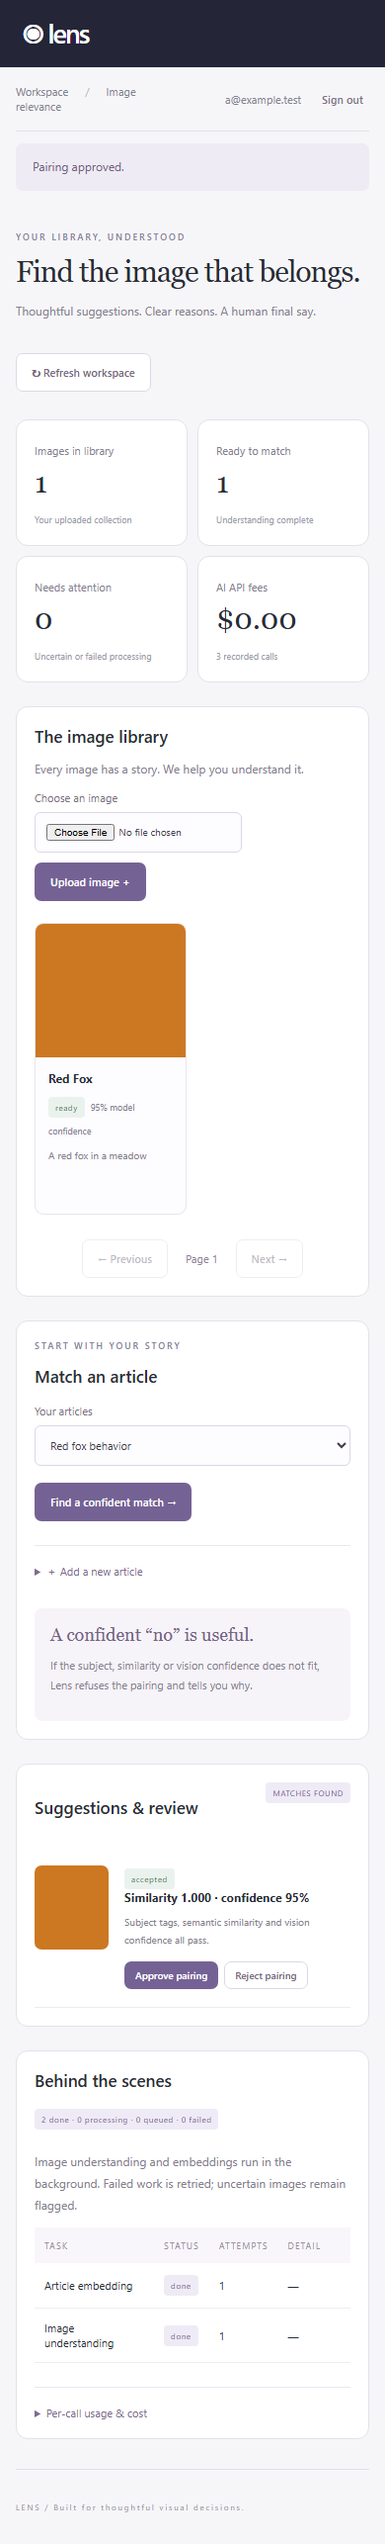
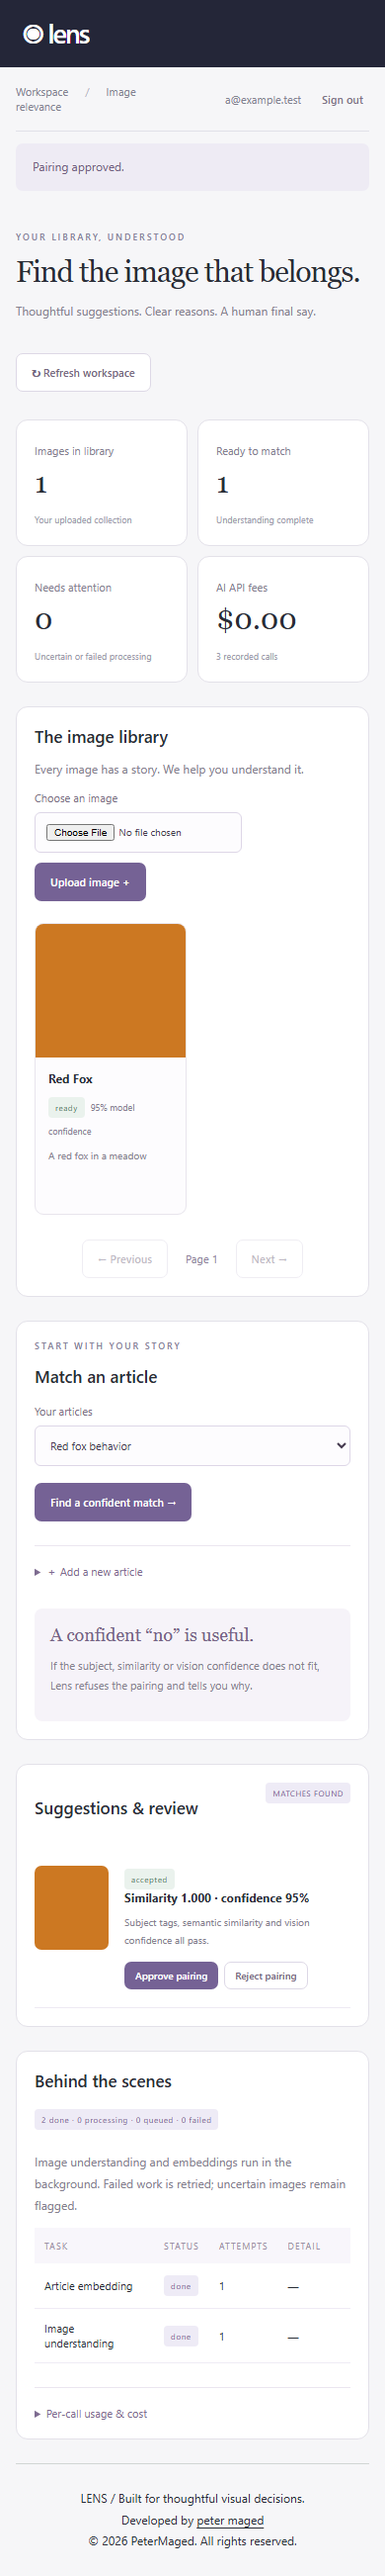
Add Peter Maged credits and prepare documented Vercel deployments

diff --git a/public/style.css b/public/style.css
@@ -1,1 +1,3 @@
 :root{font-family:Inter,ui-sans-serif,system-ui,sans-serif;color:#292d36;background:#f6f6f8}*{box-sizing:border-box}body{margin:0}button,input,textarea,select{font:inherit}aside{position:fixed;inset:0 auto 0 0;width:224px;background:#242638;padding:36px 24px;color:#f6f5fb;display:flex;flex-direction:column;gap:12px}.brand{text-decoration:none;color:#fff;font-size:38px;font-weight:600;letter-spacing:-2px;margin-bottom:54px}.brand span{display:block;font-size:9px;letter-spacing:2px;font-weight:400;color:#b5b3ce;margin:14px 0}.section-label{font-size:9px;letter-spacing:2px;color:#85869e;margin:0 12px 6px}aside>a:not(.brand){text-decoration:none;color:#b9b9ca;font-size:12px;padding:13px 12px;border-radius:7px}aside>a.selected{background:#3d3e56;color:#fff}.aside-note{margin-top:auto;font:22px/1.5 Georgia,serif;color:#d5d3e5}.aside-note span{display:block;font:8px system-ui;letter-spacing:2px;margin-top:25px;color:#9290ad}main{margin-left:224px;padding:0 44px;max-width:1850px}header{height:84px;border-bottom:1px solid #e1e1e9;display:flex;align-items:center;justify-content:space-between;font-size:11px;color:#838391}header b{margin:0 14px;color:#b8b6c6;font-weight:400}header>div{display:flex;gap:15px;align-items:center}.heading{display:flex;align-items:center;justify-content:space-between;margin:40px 0 28px;gap:20px}.eyebrow{font-size:9px;letter-spacing:2px;color:#858198;font-weight:600}h1{font:normal clamp(30px,3vw,44px) Georgia,serif;letter-spacing:-1px;margin:12px 0}h2{font-size:17px;font-weight:600;margin:0 0 8px}p{font-size:12px;color:#85818e;line-height:1.8}.card{background:#fff;border:1px solid #e3e1e9;border-radius:12px;padding:24px}.metrics{display:grid;grid-template-columns:repeat(4,1fr);gap:16px;margin-bottom:24px}.metrics span{font-size:11px;color:#84808f}.metrics strong{font:38px/1.6 Georgia,serif;display:block}.metrics small{font-size:10px;color:#a09bac}.section-head{display:flex;align-items:center;justify-content:space-between;gap:20px;margin-bottom:22px}.section-head p{margin-bottom:0}.image-grid{display:grid;grid-template-columns:repeat(4,minmax(0,1fr));gap:18px}.image-card{border:1px solid #e8e5ed;border-radius:9px;overflow:hidden;background:#fdfcfe}.image-card img{width:100%;height:155px;object-fit:cover;display:block;background:#f0eef5}.image-meta{padding:13px}.image-meta h3{font-size:12px;margin:0 0 8px;text-transform:capitalize}.image-meta p{font-size:10px;line-height:1.5;display:-webkit-box;-webkit-line-clamp:3;-webkit-box-orient:vertical;overflow:hidden;min-height:43px}.badge{display:inline-block;border-radius:4px;padding:5px 7px;font-size:8px;letter-spacing:.6px;background:#eeebf6;color:#7a6698}.badge.ready,.badge.accepted{background:#eaf2ed;color:#508566}.badge.flagged,.badge.failed,.badge.rejected{background:#fcf0e5;color:#a17643}.image-meta .badge{margin-right:6px}.confidence{font-size:9px;color:#888193}.pagination{display:flex;justify-content:center;gap:18px;align-items:center;margin-top:25px;font-size:11px;color:#8e849c}button{border:1px solid transparent;border-radius:7px;padding:11px 15px;font-size:11px;font-weight:600;background:#756295;color:#fff;cursor:pointer}button.secondary{background:#fff;border-color:#ddd8e6;color:#736680}button.plain{padding:5px;background:transparent;color:#7c7288}button:disabled{opacity:.45;cursor:not-allowed}button:hover:not(:disabled){filter:brightness(.96)}button.danger{background:#f6e9e6;color:#a46957}label{display:block;font-size:11px;color:#7a7085;margin:17px 0}input,textarea,select{display:block;width:100%;padding:11px;margin-top:7px;border:1px solid #ddd6e7;border-radius:6px;background:#fdfcfe;color:#44394e}input[type=file]{font-size:10px;width:210px}.file-label{margin:0}#upload-form{display:flex;gap:10px;align-items:end}.matching-grid{display:grid;grid-template-columns:.8fr 1.5fr;gap:24px;margin:24px 0}.matching-grid h2{margin-top:14px}.guard-note{background:#f6f3f9;border-radius:8px;padding:16px;margin-top:30px}.guard-note b{font:18px Georgia,serif;color:#756486}.guard-note p{font-size:11px}.suggestion{display:grid;grid-template-columns:100px 1fr;gap:16px;padding:18px 0;border-bottom:1px solid #eeeaf3}.suggestion img{width:100px;height:90px;object-fit:cover;border-radius:7px}.suggestion h3{font-size:12px;margin:0 0 8px}.suggestion p{font-size:10px;margin:5px 0}.suggestion button{padding:6px 10px;margin:8px 6px 0 0;font-size:10px}.empty{padding:20px 0;font-size:12px}.table-wrap{overflow-x:auto}table{width:100%;border-collapse:collapse;text-align:left}th{font-size:9px;letter-spacing:1px;color:#9a90a5;padding:12px 10px;background:#f8f6fb;font-weight:400}td{padding:12px 10px;border-bottom:1px solid #efebf5;font-size:11px}details{border-top:1px solid #ebe6f0;padding-top:18px;margin-top:24px}summary{font-size:11px;color:#7d6b90;cursor:pointer}.cost-line{display:flex;justify-content:space-between;padding:12px 0;border-bottom:1px solid #eee9f4;font-size:10px;gap:12px}.auth{max-width:580px;margin:65px auto}.auth p{font-size:13px}.actions{display:flex;gap:10px;margin-top:24px}#message:not(:empty){background:#eeebf4;color:#716082;border-radius:7px;padding:13px 17px;font-size:12px}footer{padding:32px 0;font-size:8px;letter-spacing:1.8px;color:#9b92a5;border-top:1px solid #e5deed;margin-top:30px}[hidden]{display:none!important}:focus-visible{outline:2px solid #9480b0;outline-offset:3px}@media(min-width:1600px){.image-grid{grid-template-columns:repeat(5,minmax(0,1fr))}}@media(max-width:1100px){aside{width:180px;padding:30px 18px}main{margin-left:180px;padding:0 24px}.image-grid{grid-template-columns:repeat(3,minmax(0,1fr))}.matching-grid{grid-template-columns:1fr}.section-head{align-items:flex-start;flex-wrap:wrap}}@media(max-width:650px){aside{position:static;width:100%;padding:15px 22px;display:block}.brand{font-size:27px;margin:0}.brand span,.section-label,aside>a:not(.brand),.aside-note{display:none}main{margin:0;padding:0 16px}.heading{align-items:flex-start;flex-direction:column}header{height:65px}.metrics{grid-template-columns:repeat(2,1fr);gap:10px}.card{padding:18px}.metrics strong{font-size:30px}.image-grid{grid-template-columns:repeat(2,minmax(0,1fr));gap:12px}.image-card img{height:135px}.metrics small{font-size:9px}.suggestion{grid-template-columns:75px 1fr}.suggestion img{width:75px;height:85px}#upload-form{flex-wrap:wrap}.section-head{gap:10px}header>span{max-width:130px}#identity{max-width:140px;overflow:hidden;text-overflow:ellipsis}}
+
+.pm-credit{display:block;clear:both;padding:24px 16px;margin-top:24px;text-align:center;font:12px/1.8 system-ui,sans-serif;letter-spacing:normal;color:inherit;border-top:1px solid #87958c55}.pm-credit a{color:inherit;text-decoration:underline;text-underline-offset:3px}.pm-credit a:focus-visible{outline:2px solid currentColor;outline-offset:4px}

diff --git a/public/index.html b/public/index.html
@@ -8,4 +8,5 @@
 <section id="library" class="card"><div class="section-head"><div><h2>The image library</h2><p>Every image has a story. We help you understand it.</p></div><form id="upload-form"><label class="file-label">Choose an image<input id="image-file" type="file" name="image" accept="image/jpeg,image/png,image/webp" required></label><button>Upload image +</button></form></div><div id="image-grid" class="image-grid"></div><div class="pagination"><button id="previous" class="secondary">← Previous</button><span id="page-label"></span><button id="next" class="secondary">Next →</button></div></section>
 <section id="matching" class="matching-grid"><div class="card"><div class="eyebrow">START WITH YOUR STORY</div><h2>Match an article</h2><label>Your articles<select id="post-select"><option value="">Choose an article</option></select></label><button id="match">Find a confident match →</button><details><summary>＋ Add a new article</summary><form id="post-form"><label>Title<input name="title" required minlength="3" maxlength="180" placeholder="Life in the wild"></label><label>Article text<textarea name="content" required minlength="10" maxlength="6000" rows="5" placeholder="What is your story about?"></textarea></label><button>Create article</button></form></details><div class="guard-note"><b>A confident “no” is useful.</b><p>If the subject, similarity or vision confidence does not fit, Lens refuses the pairing and tells you why.</p></div></div><div class="card"><div class="section-head"><h2>Suggestions & review</h2><span id="match-state" class="badge">WAITING FOR AN ARTICLE</span></div><div id="suggestions"><p class="empty">Choose an article to explore its best matches.</p></div></div></section>
 <section id="activity" class="card"><div class="section-head"><h2>Behind the scenes</h2><span id="progress" class="badge">NO JOBS</span></div><p>Image understanding and embeddings run in the background. Failed work is retried; uncertain images remain flagged.</p><div class="table-wrap"><table><thead><tr><th>TASK</th><th>STATUS</th><th>ATTEMPTS</th><th>DETAIL</th><th></th></tr></thead><tbody id="jobs"></tbody></table></div><details><summary>Per-call usage & cost</summary><div id="costs"></div></details></section>
-</div><footer>LENS / Built for thoughtful visual decisions.</footer></main></body></html>
+</div><footer class="pm-credit" aria-label="Developer credits">LENS / Built for thoughtful visual decisions.
+<div>Developed by <a href="https://petermaged.com/">peter maged</a></div><div>© 2026 PeterMaged. All rights reserved.</div></footer></main></body></html>

diff --git a/DEPLOYMENT.md b/DEPLOYMENT.md
@@ -1,0 +1,33 @@
+# Lens — Image Relevance Workspace: deployment
+
+## Vercel settings
+
+| Setting | Value |
+|---|---|
+| Root Directory | `.` |
+| Framework Preset | Other |
+| Node.js | 24.x |
+| Install Command | `node --version` (backend dependencies are not needed for static assets) |
+| Build Command | `node scripts/build-vercel.mjs` |
+| Output Directory | Leave unset; the build emits Build Output API v3 |
+| Entry page | `/` |
+
+Set `BACKEND_ORIGIN=https://your-backend-host.example` in Vercel for each environment. Replace this example with a real reachable backend. Use an HTTPS origin without a trailing slash or path. Never point it at this Vercel frontend. Redeploy after changes.
+
+The build publishes only web assets selected in `deployment.json`. Source code, environment files, databases and notebooks are excluded. Files are served first; remaining paths are forwarded to the backend when configured. API requests stay on the frontend origin. Keep private responses uncacheable and session cookies host-only (no backend-domain cookie attribute).
+
+## Backend setup
+
+Run npm ci, npm run migrate and npm start. Set HOST=0.0.0.0, PORT, DATABASE_URL, DATA_DIR on persistent storage and OLLAMA_URL. Pull the documented models and keep the worker enabled. Expose only the application over HTTPS, not PostgreSQL or Ollama. Actual vision accuracy is not certified by deterministic tests.
+
+## Build and verification
+
+Run `node scripts/build-vercel.mjs` with the environment above. For a clean rebuild remove only generated `.vercel/output` first. Missing or malformed backend configuration fails the build. A successful build verifies packaging, not remote backend availability.
+
+Existing checks: `npm test; npm run test:browser`. After deployment, check desktop/mobile layout and the developer link, then exercise the real application workflow. Verify health, authentication, writes and logout where applicable. Configure the backend before expecting application data or jobs to work.
+
+## Ownership
+
+Designed and developed by [Peter Maged](https://petermaged.com/). See [LICENSE](LICENSE) for source terms. Third-party libraries, datasets and upstream materials keep their own terms. Website credits do not replace the source license.
+
+Reference: [Vercel Build Output API](https://vercel.com/docs/build-output-api).

diff --git a/README.md b/README.md
@@ -1,3 +1,20 @@
+# Lens — Image Relevance Workspace
+
+**Designed and developed by [Peter Maged](https://petermaged.com/).**
+
+Match an image library to editorial content with explainable guardrails and human approval.
+
+## Product and technical overview
+
+- **Implementation:** Node.js 24, Express 5, PostgreSQL, Sharp, Ollama vision and embedding models.
+- **Deployment:** Vercel frontend with an external backend; [DEPLOYMENT.md](DEPLOYMENT.md) contains exact settings and operational requirements.
+- **Ownership:** Peter Maged's project implementation; third-party libraries and upstream materials retain their attribution.
+- **License:** [LICENSE](LICENSE). Available for portfolio review, evaluation and further development under these terms.
+
+For project enquiries and implementation work: [petermaged.com](https://petermaged.com/).
+
+## Engineering guide and existing evidence
+
 # Lens — image understanding and content matching
 
 Understand a licensed image library, retrieve semantic matches for articles, and refuse a pairing when its subject, similarity or confidence does not fit. An editor can inspect every reason, then approve or reject a persisted suggestion.

diff --git a/docs/DEPLOYMENT_VERIFICATION.md b/docs/DEPLOYMENT_VERIFICATION.md
@@ -1,0 +1,11 @@
+# Deployment preparation verification
+
+Date: 2026-09-23
+
+15 tests passed against isolated PostgreSQL 16. Three browser acceptance probes passed. Packaging and desktop/mobile footer checks passed. Tests use a synthetic model provider; real Ollama quality was not re-evaluated.
+
+## Verification boundary
+
+Packaging used a synthetic HTTPS BACKEND_ORIGIN. External production services, domains, secrets and Vercel deployments have not been provisioned or verified. Set the real origin and follow [DEPLOYMENT.md](../DEPLOYMENT.md). A frontend build does not prove that the backend is live.
+
+Developed by [peter maged](https://petermaged.com/). © 2026 PeterMaged. All rights reserved. Source licensing remains governed by LICENSE.
